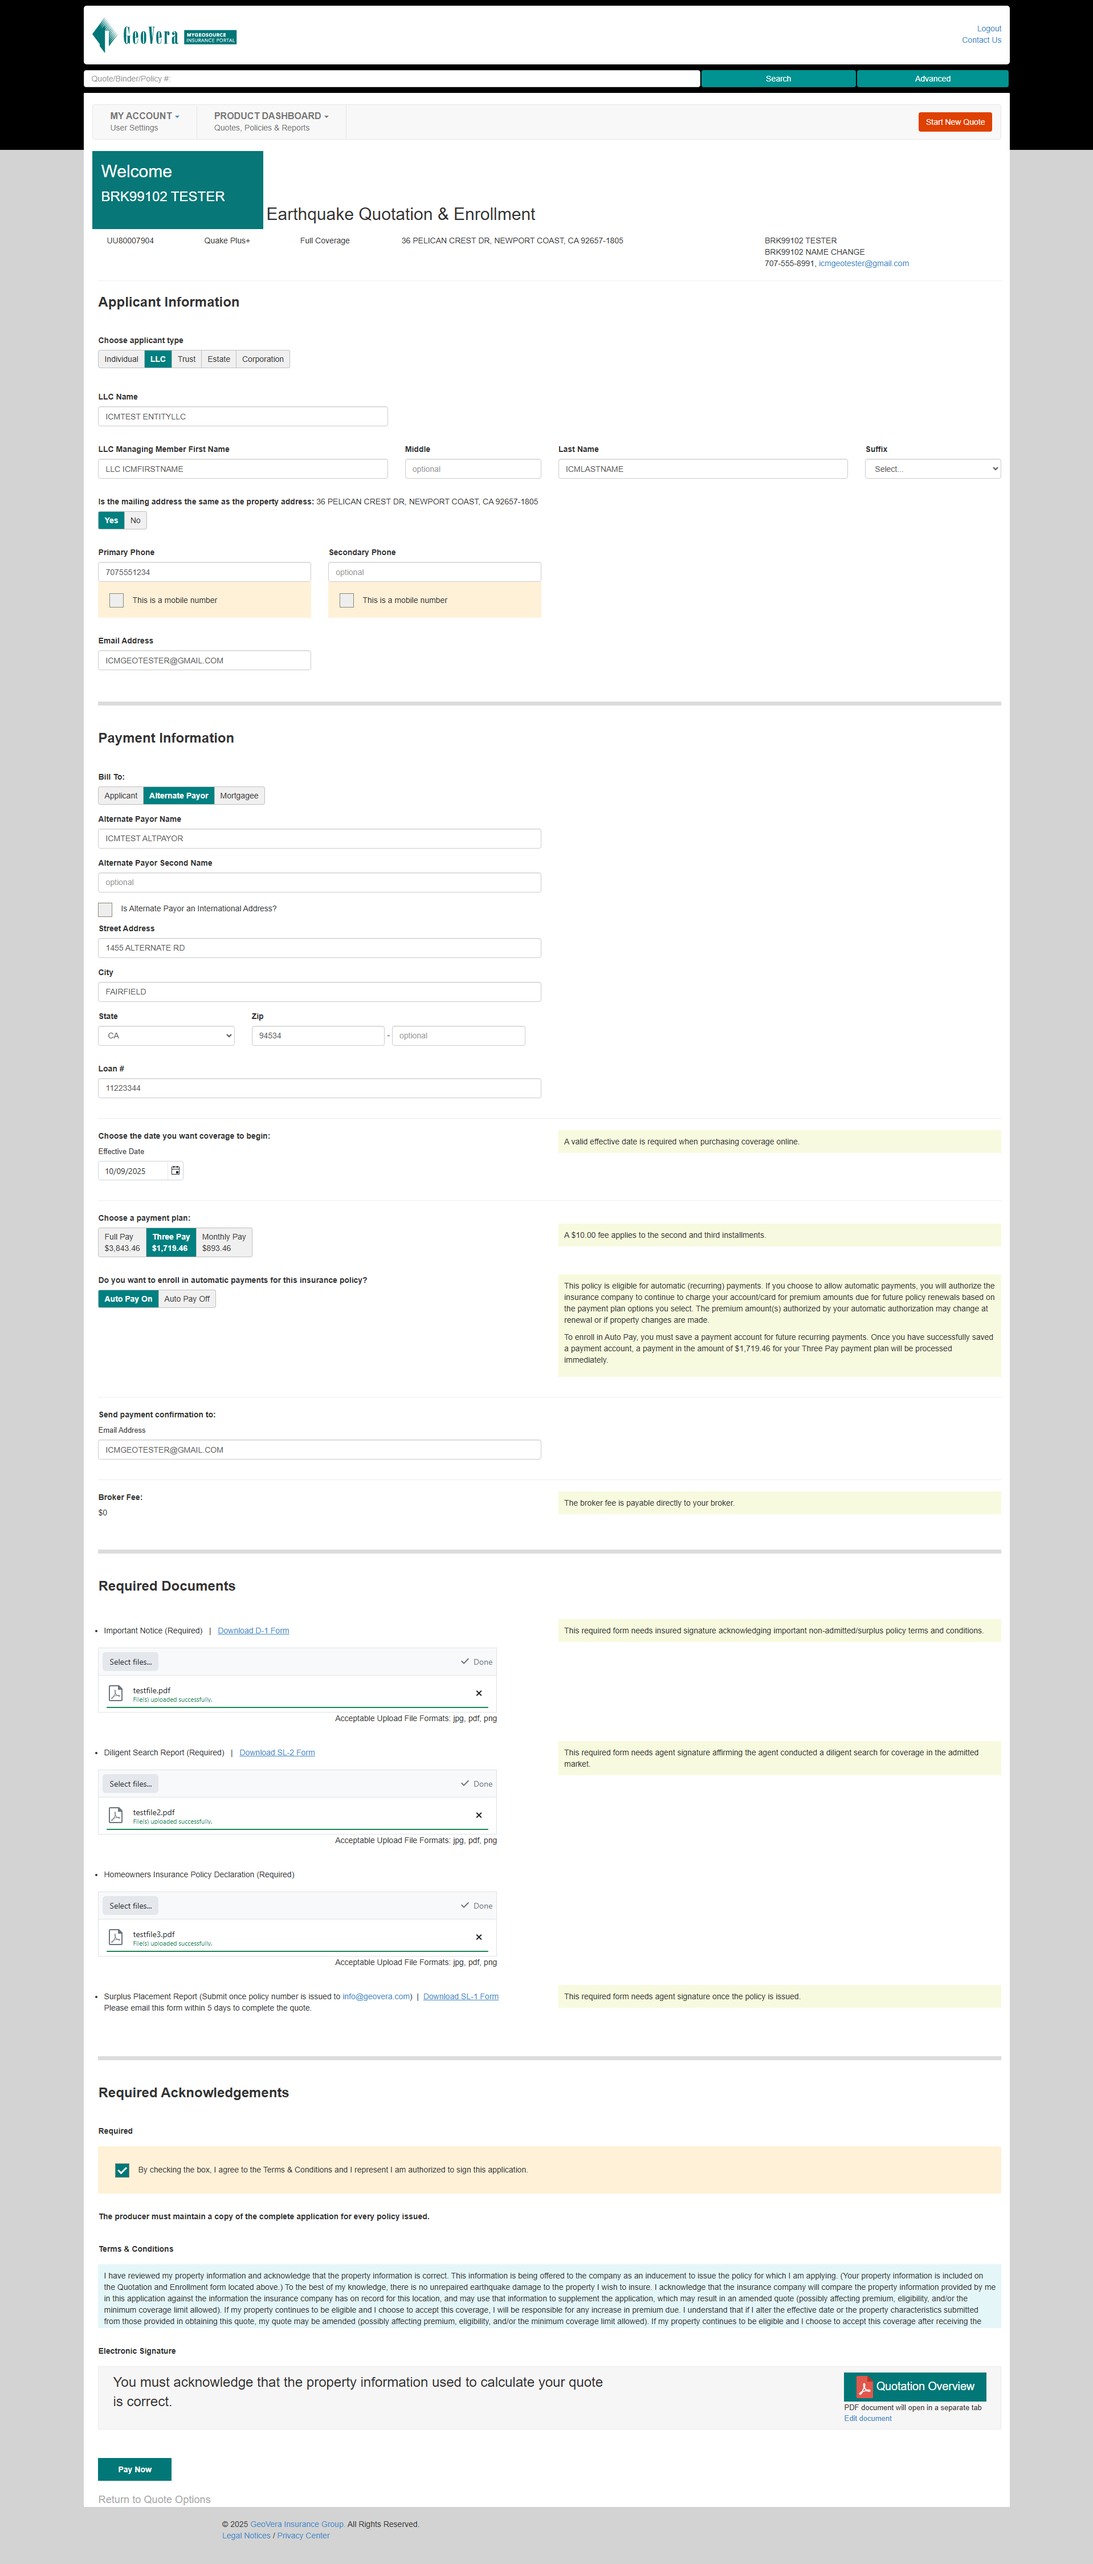
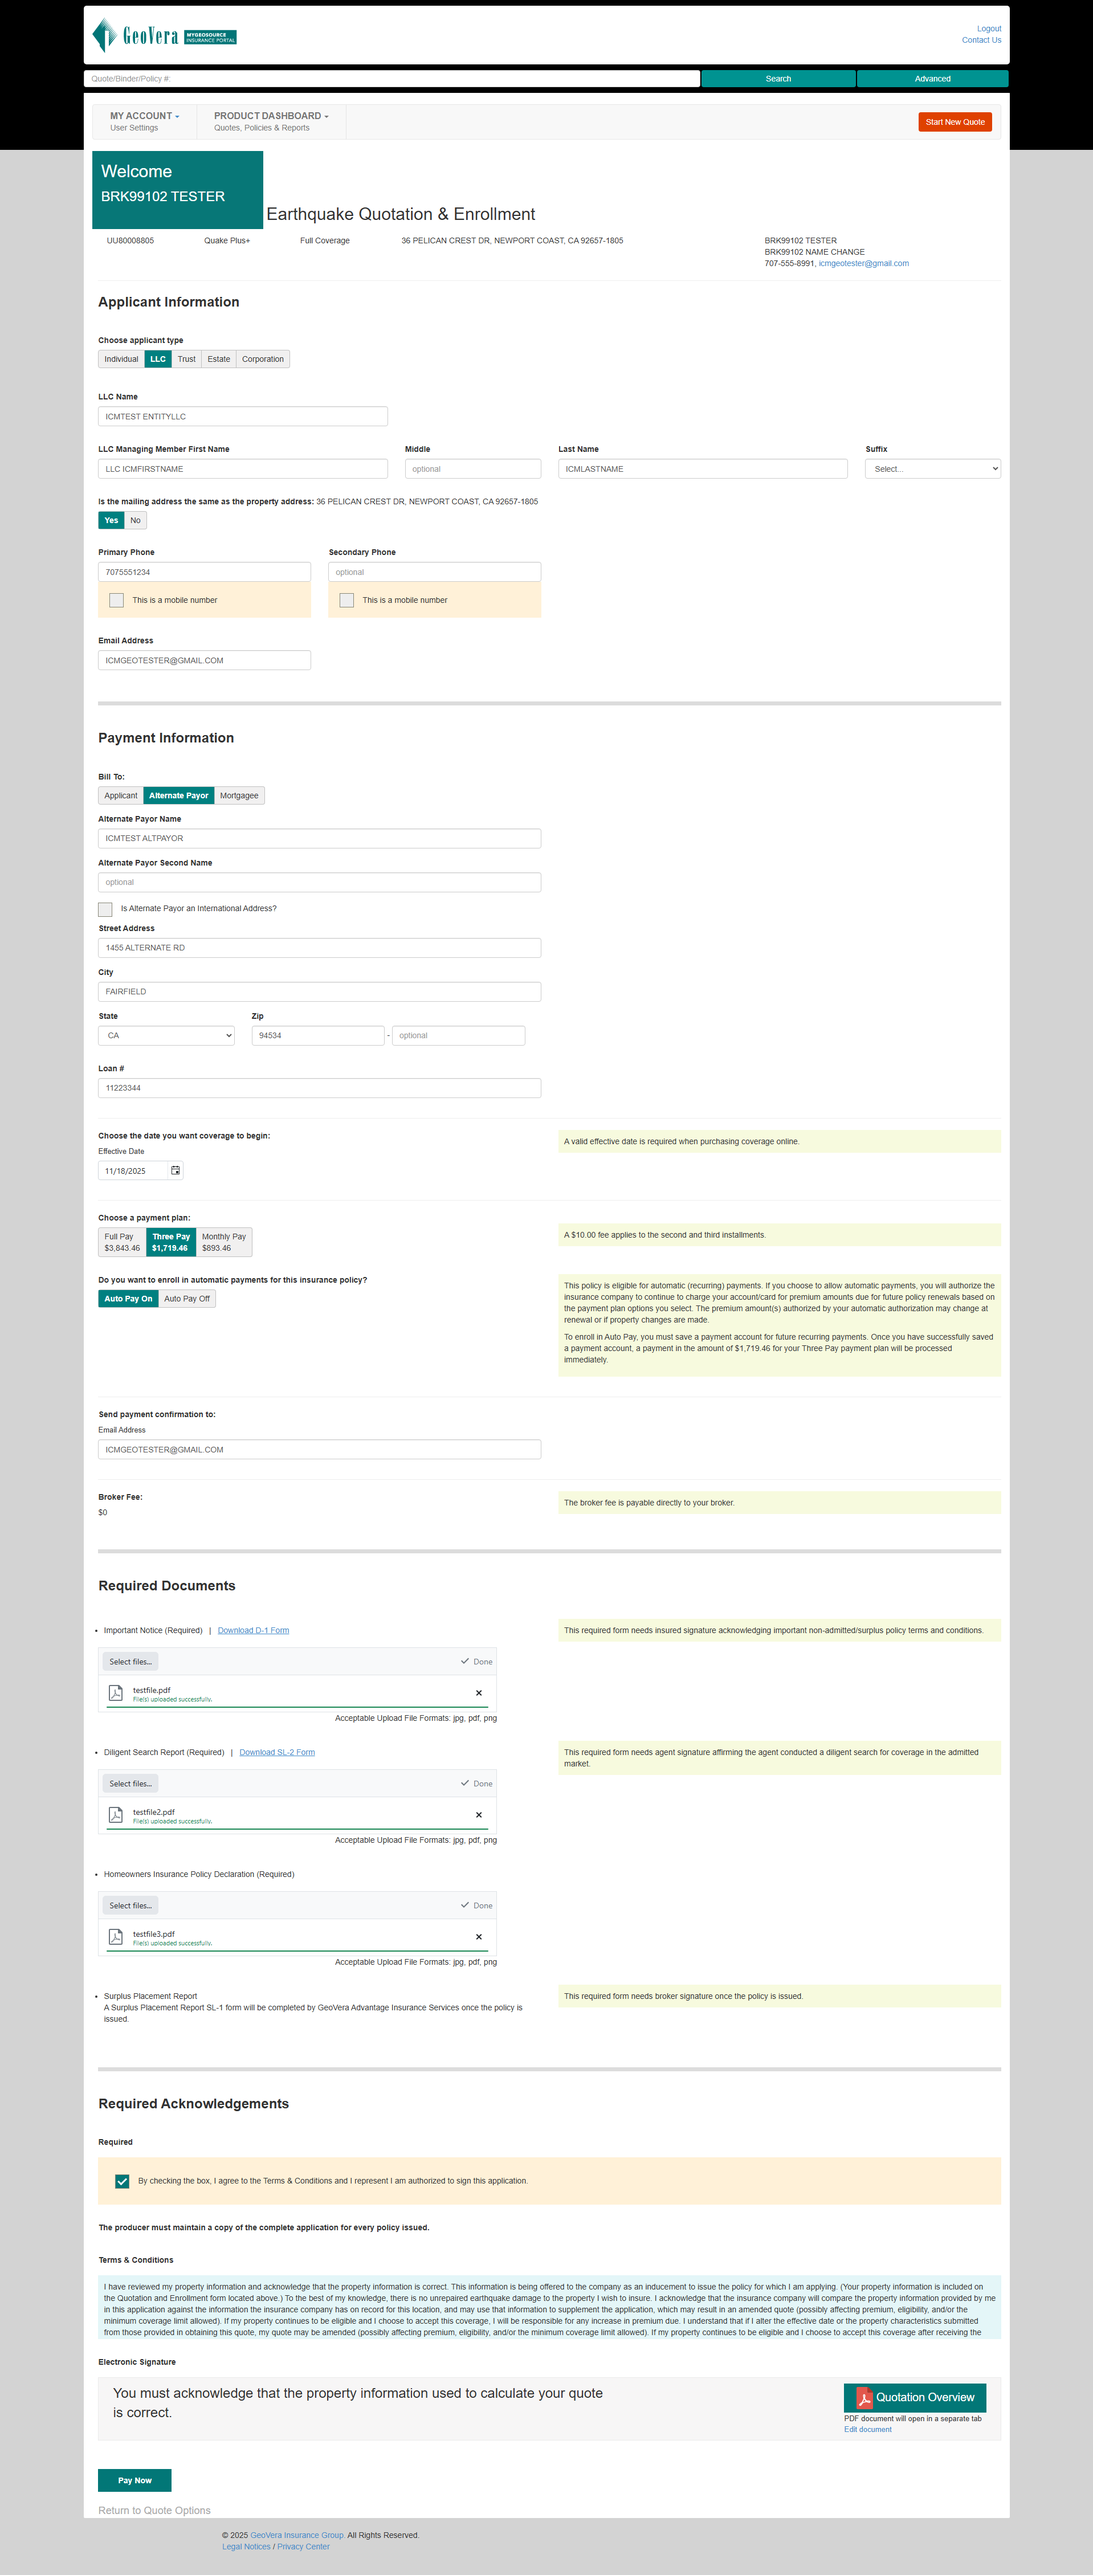
Updates to 'Pay Now' button changed to Finalize Application button

diff --git a/tests/test_quakeselect/test_quote_quakeselect.py b/tests/test_quakeselect/test_quote_quakeselect.py
@@ -20,7 +20,7 @@ def test_example(page: Page) -> None:
     page.get_by_role("textbox", name="Password").click()
     page.get_by_role("textbox", name="Password").fill("Password1")
     page.get_by_role("button", name="Log In", exact=True).click()
-    page.wait_for_selector("text=this is a test")
+    page.wait_for_selector("text=Hello,")
     page.get_by_role("paragraph").filter(has_text="Start New Quote").get_by_role("link").click()
     page.get_by_role("treeitem", name="Residential Earthquake Products").locator("span").first.click()
     page.get_by_role("button", name="OK").click()
@@ -47,7 +47,7 @@ def test_example(page: Page) -> None:
     page.get_by_role("textbox", name="Applicant Phone Number").click()
     page.get_by_role("textbox", name="Applicant Phone Number").fill("7075556789")
     page.get_by_role("textbox", name="Applicant Email Address").click()
-    page.get_by_role("textbox", name="Applicant Email Address").fill("ICMGEOTESTER@GMAIL.COM")
+    page.get_by_role("textbox", name="Applicant Email Address").fill("ICMGEOTESTER+1020@GMAIL.COM")
     page.get_by_role("button", name="View Quote Options").click()
     expect(page.get_by_label("Review all Eligible Products").get_by_role("paragraph")).to_contain_text("By submitting the request, I understand all eligible products and quotes must be reviewed with the applicant.")
     page.get_by_role("button", name="Agree & Continue").click()
@@ -80,14 +80,14 @@ def test_example(page: Page) -> None:
     page.get_by_role("row", name="Yes No Is the dwelling less").locator("label").nth(1).click()
     page.get_by_role("row", name="Yes No Is any part of the").locator("label").nth(1).click()
     page.get_by_role("button", name="Continue").click()
-    page.get_by_role("button", name="Pay Now").click()
+    page.get_by_role("button", name="Finalize Application").click()
     page.get_by_text("Applicant", exact=True).click()
     page.get_by_text("Full Pay$").click()
     page.get_by_text("Auto Pay On").click()
     page.set_input_files("#fileHODec",
                         absolute_path)
     page.locator(".eqq-terms-and-conditions-agreement > .eqq-checkbox-container > .eqq-checkbox > .bho-checkbox > .bho-checkmark").click()
-    page.get_by_role("button", name="Continue").click()
+    page.get_by_role("button", name="Pay Now").click()
     page.get_by_role("dialog", name="Payment method").content_frame.get_by_role("link", name="Add new payment method").click()
     page.get_by_role("dialog", name="Payment method").content_frame.get_by_role("textbox", name="Please, enter card number").click()
     page.get_by_role("dialog", name="Payment method").content_frame.get_by_role("textbox", name="Please, enter card number").press_sequentially("4111 1111 1111 1111")

diff --git a/tests/test_quakeplusflex/test_quote_quakeplusflex_15%.py b/tests/test_quakeplusflex/test_quote_quakeplusflex_15%.py
@@ -34,11 +34,11 @@ def test_example(page: Page) -> None:
     page.get_by_role("textbox", name="Current Companion Insurance Policy Coverage A Dwelling Limit").fill("360,0000")
     page.get_by_role("button", name="View Quote Options").click()
     page.get_by_role("button", name="Agree & Continue").click()
-    page.get_by_role("link", name="Expand All").click()
+    # page.get_by_role("link", name="Expand All").click()
     page.get_by_text("15%", exact=True).click()
     page.get_by_role("button", name="Continue Shopping Cart").click()
     page.get_by_role("button", name="Continue").click()
-    page.get_by_role("button", name="Pay Now").click()
+    page.get_by_role("button", name="Finalize Application").click()
     page.get_by_role("textbox", name="Primary Applicant First Name").click()
     page.get_by_role("textbox", name="Primary Applicant First Name").fill("icmtest")
     page.get_by_role("textbox", name="Last Name").click()

diff --git a/tests/test_quakeplusflex/test_quote_quakeplusflex_20%.py b/tests/test_quakeplusflex/test_quote_quakeplusflex_20%.py
@@ -34,11 +34,11 @@ def test_example(page: Page) -> None:
     page.get_by_role("textbox", name="Current Companion Insurance Policy Coverage A Dwelling Limit").fill("360,0000")
     page.get_by_role("button", name="View Quote Options").click()
     page.get_by_role("button", name="Agree & Continue").click()
-    page.get_by_role("link", name="Expand All").click()
+    # page.get_by_role("link", name="Expand All").click()
     page.get_by_text("20%", exact=True).click()
     page.get_by_role("button", name="Continue Shopping Cart").click()
     page.get_by_role("button", name="Continue").click()
-    page.get_by_role("button", name="Pay Now").click()
+    page.get_by_role("button", name="Finalize Application").click()
     page.get_by_role("textbox", name="Primary Applicant First Name").click()
     page.get_by_role("textbox", name="Primary Applicant First Name").fill("icmtest")
     page.get_by_role("textbox", name="Last Name").click()

diff --git a/tests/test_quakeplusflex/test_quote_quakeplusflex_25%.py b/tests/test_quakeplusflex/test_quote_quakeplusflex_25%.py
@@ -34,11 +34,11 @@ def test_example(page: Page) -> None:
     page.get_by_role("textbox", name="Current Companion Insurance Policy Coverage A Dwelling Limit").fill("360,0000")
     page.get_by_role("button", name="View Quote Options").click()
     page.get_by_role("button", name="Agree & Continue").click()
-    page.get_by_role("link", name="Expand All").click()
+    # page.get_by_role("link", name="Expand All").click()
     page.get_by_text("25%", exact=True).click()
     page.get_by_role("button", name="Continue Shopping Cart").click()
     page.get_by_role("button", name="Continue").click()
-    page.get_by_role("button", name="Pay Now").click()
+    page.get_by_role("button", name="Finalize Application").click()
     page.get_by_role("textbox", name="Primary Applicant First Name").click()
     page.get_by_role("textbox", name="Primary Applicant First Name").fill("icmtest")
     page.get_by_role("textbox", name="Last Name").click()

diff --git a/tests/test_quakeplusflex/test_quote_quakeplusflex_10%.py b/tests/test_quakeplusflex/test_quote_quakeplusflex_10%.py
@@ -226,7 +226,7 @@ def test_quote_quakeplusflex_5percent(page: Page) -> None:
     screenshot_path8 = "screenshot_quotation_enrollment.png"
     page.screenshot(path=screenshot_path8, full_page=True)
     page.get_by_role("button", name="Pay Now").click()
-    page.get_by_text("Mail Form Later").click()
+    # page.get_by_text("Mail Form Later").click()
     page.get_by_role("dialog", name="Payment method").content_frame.get_by_role("link", name="Add new payment method").wait_for(state="visible")
     # page.get_by_role("dialog", name="Payment method").content_frame.get_by_role("link", name="Add new payment method").click()
     # page.get_by_role("dialog", name="Payment method").content_frame.get_by_role("textbox", name="Please, enter card number").wait_for(state="visible")
